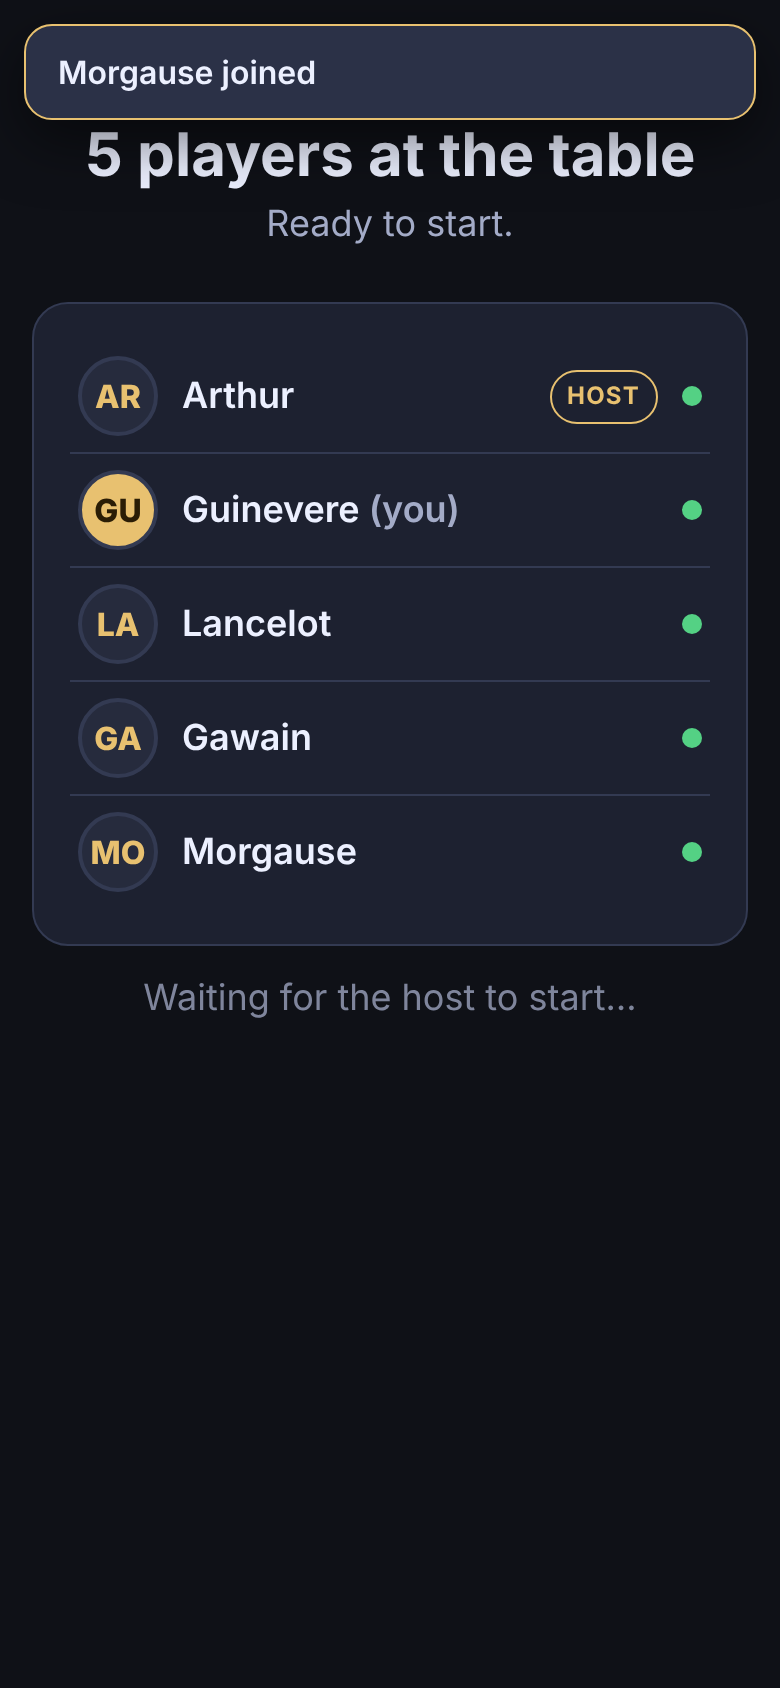
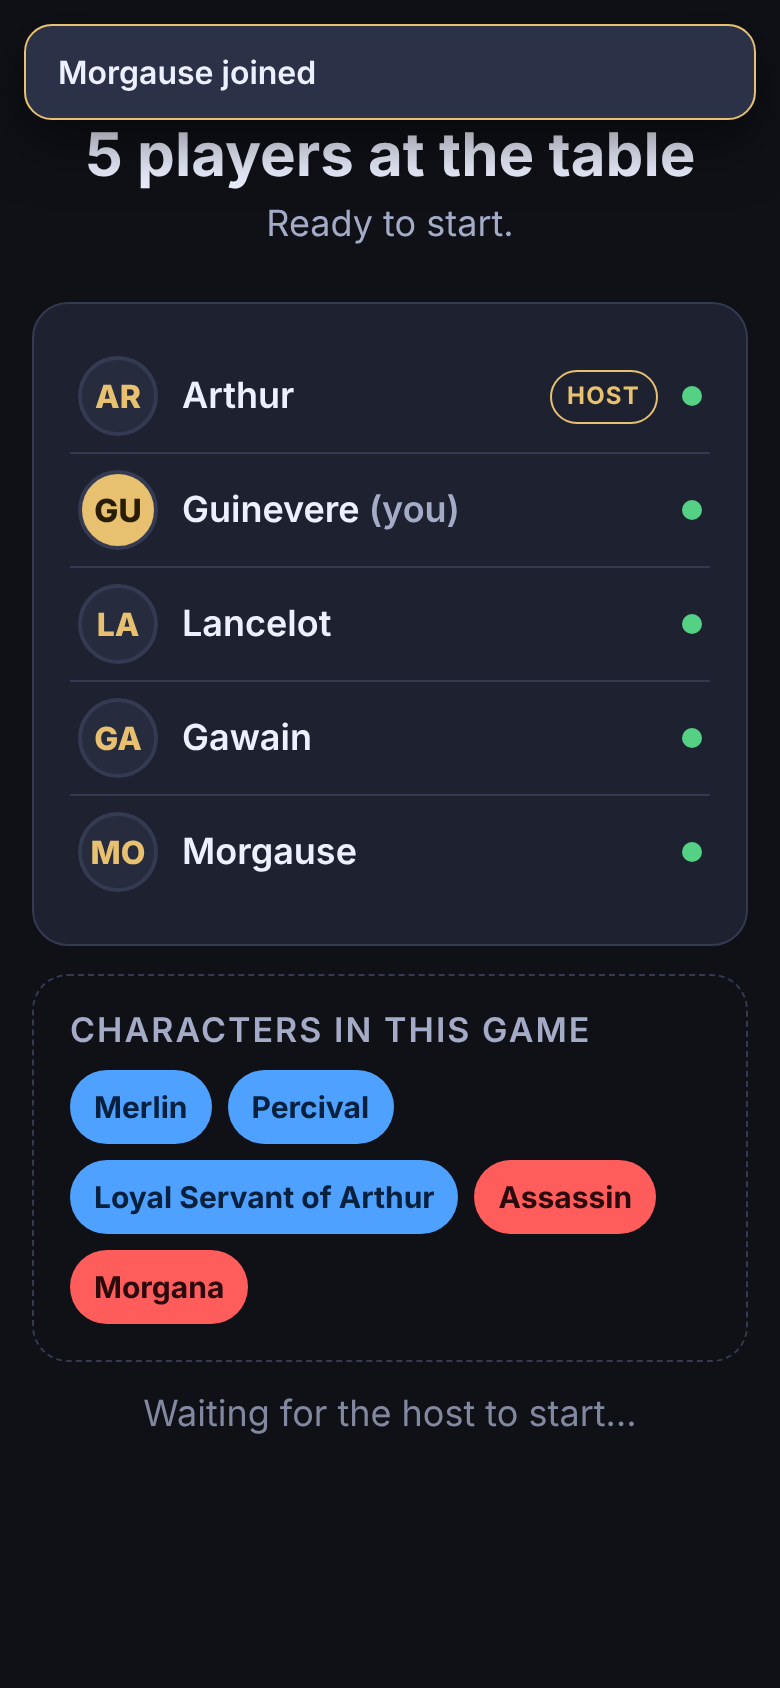
Host can add Mordred and Oberon and toggle Percival and Morgana
Lobby gains character switches (Merlin and the Assassin are always in).
Mordred is hidden from Merlin; Oberon is unknown to the other evil
players and knows nobody; Percival without Morgana sees Merlin only.
The engine rejects combinations that do not fit the evil seats. Everyone
sees the list of characters in play. Fallback card art for the two new
characters; drop mordred.png / oberon.png into web/img for the real art.

Claude-Session: https://claude.ai/code/session_01L9td7i8WK9tKyVLFpHJSvk

diff --git a/server/src/main/resources/web/app.js b/server/src/main/resources/web/app.js
@@ -240,6 +240,12 @@
     ASSASSIN: { name: 'Assassin', img: 'assassin', loyalty: 'EVIL',
       text: 'The blade in the dark. If good wins three quests, you get one shot at Merlin.',
       tips: ['Watch who quietly steers the good players: that is probably Merlin.', 'Fail quests when you are on them, and make votes fail five times if you can.', 'At the end, discuss with your team and name Merlin to win.'] },
+    MORDRED: { name: 'Mordred', img: 'mordred', loyalty: 'EVIL',
+      text: 'The dark lord. Merlin cannot see you.',
+      tips: ['Merlin does not know you are evil: use that to earn the trust of the good players.', 'Get onto quests and fail them, or make the table reject five teams in a row.', 'Help the Assassin work out who Merlin is.'] },
+    OBERON: { name: 'Oberon', img: 'oberon', loyalty: 'EVIL',
+      text: 'The lone agent. You do not know the other evil players, and they do not know you. Merlin sees you.',
+      tips: ['Work out who your evil teammates are from the votes and failed quests.', 'Get onto quests and play Fail.', 'Be careful: a quest with two evil players can fail with two cards and expose you both.'] },
     MINION: { name: 'Minion of Mordred', img: 'minion', loyalty: 'EVIL',
       text: 'A servant of darkness. You know your fellow evil players.',
       tips: ['Get picked for quests and play Fail (one is usually enough).', 'Reject teams full of good players; approve teams that include evil.', 'Help identify Merlin for the Assassin at the end.'] },
@@ -251,8 +257,9 @@
     const good = m.loyalty === 'GOOD';
     let knowledge = '';
     if (m.role === 'MERLIN') knowledge = `<div class="know"><h3>These players are evil</h3>${nameTags(m.knownEvil)}</div>`;
-    else if (m.role === 'PERCIVAL') knowledge = `<div class="know"><h3>Merlin and Morgana (in some order)</h3>${nameTags(m.merlinOrMorgana)}</div>`;
-    else if (!good) knowledge = `<div class="know"><h3>Your fellow evil players</h3>${m.evilTeammates.length ? nameTags(m.evilTeammates) : '<span class="muted">none</span>'}</div>`;
+    else if (m.role === 'PERCIVAL') knowledge = `<div class="know"><h3>${m.merlinOrMorgana.length > 1 ? 'Merlin and Morgana (in some order)' : 'Merlin'}</h3>${nameTags(m.merlinOrMorgana)}</div>`;
+    else if (m.role === 'OBERON') knowledge = `<div class="know"><h3>What you know</h3><span class="muted">Nothing. The other evil players do not know you either.</span></div>`;
+    else if (!good) knowledge = `<div class="know"><h3>Your fellow evil players</h3>${m.evilTeammates.length ? nameTags(m.evilTeammates) : '<span class="muted">none</span>'}${(ui.state && ui.state.rolesInPlay.includes('OBERON')) ? '<div class="muted" style="font-size:13px;margin-top:6px">Oberon is in play and is not shown here.</div>' : ''}</div>`;
     else knowledge = `<div class="know"><h3>What you know</h3><span class="muted">Only your own loyalty.</span></div>`;
     return `${info.img ? roleImage(info) : ''}
       <div class="loyalty">${good ? 'Good' : 'Evil'}</div>
@@ -365,7 +372,16 @@
       </div>
       ${m.isHost && joinUrl ? `<div class="card flat center"><h3>Friends open this address</h3><div class="linkbox">${esc(joinUrl)}</div><p class="muted" style="margin:8px 0 0;font-size:14px">They must be on your hotspot Wi-Fi.</p></div>` : ''}
       <div class="card"><ul class="list">${list}</ul></div>
+      ${rolesInPlayHtml(s)}
       ${m.isHost ? `
+        <div class="card">
+          <h3>Characters</h3>
+          ${charToggle(s, 'percival', 'Percival', 'Good. Sees Merlin and Morgana.')}
+          ${charToggle(s, 'morgana', 'Morgana', 'Evil. Looks like Merlin to Percival.')}
+          ${charToggle(s, 'mordred', 'Mordred', 'Evil. Hidden from Merlin.')}
+          ${charToggle(s, 'oberon', 'Oberon', 'Evil. Unknown to the other evil players.')}
+          <p class="muted" style="font-size:13px;margin:6px 0 0">Merlin and the Assassin are always in. Evil seats: ${evilSeats(n)} at ${n} players, so the Assassin plus up to ${Math.max(0, evilSeats(n) - 1)} of Morgana, Mordred and Oberon.</p>
+        </div>
         <div class="card">
           <div class="toggle" data-action="toggleLady" role="switch" aria-checked="${ladyOn}">
             <div><div style="font-weight:700">Lady of the Lake</div><div class="muted" style="font-size:14px">${ladyDefault ? 'On by default at 7+ players' : 'Optional at 5–6 players'}</div></div>
@@ -374,6 +390,25 @@
         </div>
         <div class="actions"><button class="btn big" data-action="start" ${canStart ? '' : 'disabled'}>Start game</button></div>`
         : `<p class="center muted pulse">Waiting for the host to start…</p>`}`;
+  }
+
+  const EVIL_SEATS = { 5: 2, 6: 2, 7: 3, 8: 3, 9: 3, 10: 4 };
+  function evilSeats(n) { return EVIL_SEATS[n] || (n >= 10 ? 4 : 2); }
+  function charToggle(s, key, title, text) {
+    const on = !!s.options[key];
+    return `<div class="toggle" data-action="toggleChar" data-key="${key}" role="switch" aria-checked="${on}">
+      <div><div style="font-weight:700">${title}</div><div class="muted" style="font-size:14px">${text}</div></div>
+      <span class="switch ${on ? 'on' : ''}"></span></div>`;
+  }
+  function rolesInPlayHtml(s) {
+    if (!s.rolesInPlay || !s.rolesInPlay.length) return '';
+    const counts = {};
+    s.rolesInPlay.forEach((r) => { counts[r] = (counts[r] || 0) + 1; });
+    const order = ['MERLIN', 'PERCIVAL', 'LOYAL_SERVANT', 'ASSASSIN', 'MORGANA', 'MORDRED', 'OBERON', 'MINION'];
+    return `<div class="card flat"><h3>Characters in this game</h3><div class="names">${order.filter((r) => counts[r]).map((r) => {
+      const info = ROLE_INFO[r];
+      return `<span class="tag ${info.loyalty === 'GOOD' ? 'good' : 'evil'}">${esc(info.name)}${counts[r] > 1 ? ' ×' + counts[r] : ''}</span>`;
+    }).join('')}</div></div>`;
   }
 
   // ---- role reveal
@@ -741,6 +776,7 @@
       case 'start': act('start'); break;
       case 'kick': confirmDialog('Remove ' + nameOf(id) + ' from the table?', () => act('kick', { playerId: id })); break;
       case 'toggleLady': act('setOptions', { ladyOfTheLake: !s.ladyEnabled }); break;
+      case 'toggleChar': { const k = el.getAttribute('data-key'); const o = {}; o[k] = !s.options[k]; act('setOptions', o); break; }
       case 'toggleRole': ui.roleShown = !ui.roleShown; render(); break;
       case 'confirmRole': ui.roleShown = false; act('confirmRole'); break;
       case 'forceContinue': act('forceContinue'); break;

diff --git a/engine/src/test/kotlin/avalon/engine/GameTest.kt b/engine/src/test/kotlin/avalon/engine/GameTest.kt
@@ -12,15 +12,16 @@ import kotlin.test.assertTrue
 
 class GameTest {
 
-    private fun lobby(n: Int, seed: Int = 1, lady: Boolean? = null): Game {
+    private fun lobby(n: Int, seed: Int = 1, lady: Boolean? = null, options: GameOptions? = null): Game {
         val g = Game(Random(seed))
         for (i in 0 until n) g.addPlayer("p$i", "Player $i", host = i == 0)
-        if (lady != null) g.setOptions("p0", GameOptions(ladyOfTheLake = lady))
+        if (options != null) g.setOptions("p0", options.copy(ladyOfTheLake = lady ?: options.ladyOfTheLake))
+        else if (lady != null) g.setOptions("p0", GameOptions(ladyOfTheLake = lady))
         return g
     }
 
-    private fun started(n: Int, seed: Int = 1, lady: Boolean? = null): Game {
-        val g = lobby(n, seed, lady)
+    private fun started(n: Int, seed: Int = 1, lady: Boolean? = null, options: GameOptions? = null): Game {
+        val g = lobby(n, seed, lady, options)
         g.start("p0")
         g.players.forEach { g.confirmRole(it.id) }
         assertEquals(Phase.TEAM_SELECTION, g.phase)
@@ -95,6 +96,44 @@ class GameTest {
             assertEquals(Setup.forPlayers(n).evil, roles.count { !it.good })
             assertEquals(n >= 7, g.viewFor("p0").ladyEnabled)
         }
+    }
+
+    @Test
+    fun `optional characters Mordred and Oberon follow the rules`() {
+        // Not enough evil seats at 5-6 players for Morgana + Mordred.
+        assertFailsWith<IllegalActionException> { lobby(5).setOptions("p0", GameOptions(mordred = true)) }
+        assertFailsWith<IllegalActionException> { lobby(6).setOptions("p0", GameOptions(oberon = true)) }
+        assertFailsWith<IllegalActionException> { lobby(7).setOptions("p0", GameOptions(mordred = true, oberon = true)) }
+        assertFailsWith<IllegalActionException> { lobby(7).setOptions("p0", GameOptions(percival = false)) } // Morgana needs Percival
+        // Dropping Morgana makes room at 5 players.
+        val small = started(5, options = GameOptions(morgana = false, mordred = true))
+        assertEquals(1, small.players.count { it.role == Role.MORDRED })
+        assertEquals(0, small.players.count { it.role == Role.MORGANA })
+        // Percival without Morgana sees only Merlin.
+        val perc = small.viewFor(small.byRole(Role.PERCIVAL).id).you
+        assertEquals(listOf(small.byRole(Role.MERLIN).id), perc.merlinOrMorgana)
+
+        for (n in 7..10) for (seed in 1..4) {
+            val g = started(n, seed = seed, options = GameOptions(mordred = true, oberon = n >= 10))
+            val all = g.viewFor("p0").rolesInPlay
+            assertEquals(n, all.size)
+            assertTrue(Role.MORDRED in all); assertEquals(n >= 10, Role.OBERON in all)
+            val evil = g.players.filter { !it.role!!.good }.map { it.id }.toSet()
+            val mordred = g.byRole(Role.MORDRED).id
+            val oberon = g.players.firstOrNull { it.role == Role.OBERON }?.id
+            // Merlin sees all evil except Mordred.
+            assertEquals(evil - mordred, g.viewFor(g.byRole(Role.MERLIN).id).you.knownEvil.toSet())
+            for (p in g.players.filter { !it.role!!.good }) {
+                val mates = g.viewFor(p.id).you.evilTeammates.toSet()
+                if (p.role == Role.OBERON) assertTrue(mates.isEmpty(), "Oberon knows nobody")
+                else assertEquals(evil - p.id - setOfNotNull(oberon), mates, "evil see each other but not Oberon")
+            }
+            if (oberon != null) assertTrue(oberon in g.viewFor(g.byRole(Role.MERLIN).id).you.knownEvil, "Merlin sees Oberon")
+            assertEquals(listOf(QuestCard.SUCCESS, QuestCard.FAIL), g.viewFor(mordred).you.allowedQuestCards)
+        }
+        // Options that stop fitting after players leave are rejected at start.
+        val g = lobby(7); g.setOptions("p0", GameOptions(mordred = true)); g.kick("p0", "p6"); g.kick("p0", "p5")
+        assertFailsWith<IllegalActionException> { g.start("p0") }
     }
 
     @Test

diff --git a/engine/src/main/kotlin/avalon/engine/Model.kt b/engine/src/main/kotlin/avalon/engine/Model.kt
@@ -10,6 +10,8 @@ enum class Role(val good: Boolean, val displayName: String) {
     LOYAL_SERVANT(true, "Loyal Servant of Arthur"),
     MORGANA(false, "Morgana"),
     ASSASSIN(false, "Assassin"),
+    MORDRED(false, "Mordred"),
+    OBERON(false, "Oberon"),
     MINION(false, "Minion of Mordred");
 
     val loyalty: Loyalty get() = if (good) Loyalty.GOOD else Loyalty.EVIL
@@ -47,7 +49,15 @@ class IllegalActionException(message: String) : RuntimeException(message)
 data class GameOptions(
     /** null = default (Lady of the Lake on at 7+ players). */
     val ladyOfTheLake: Boolean? = null,
-)
+    /** Optional characters. Merlin and the Assassin are always in play. */
+    val percival: Boolean = true,
+    val morgana: Boolean = true,
+    val mordred: Boolean = false,
+    val oberon: Boolean = false,
+) {
+    /** Evil characters besides the Assassin that these options ask for. */
+    val specialEvilCount: Int get() = listOf(morgana, mordred, oberon).count { it }
+}
 
 /** Per player-count configuration from the official rules. */
 data class Setup(val players: Int, val good: Int, val evil: Int, val questSizes: List<Int>) {
@@ -66,11 +76,22 @@ data class Setup(val players: Int, val good: Int, val evil: Int, val questSizes:
 
         fun forPlayers(n: Int): Setup = TABLE[n] ?: throw IllegalActionException("Avalon needs 5 to 10 players")
 
-        fun roles(n: Int): List<Role> {
+        /** Throws if the optional characters do not fit this player count. */
+        fun validate(n: Int, o: GameOptions) {
             val s = forPlayers(n)
-            val good = listOf(Role.MERLIN, Role.PERCIVAL) + List(s.good - 2) { Role.LOYAL_SERVANT }
-            val evil = listOf(Role.MORGANA, Role.ASSASSIN) + List(s.evil - 2) { Role.MINION }
-            return good + evil
+            val evilSpecials = 1 + o.specialEvilCount // Assassin + chosen
+            if (evilSpecials > s.evil) throw IllegalActionException(
+                "With $n players there are only ${s.evil} evil roles: the Assassin plus at most ${s.evil - 1} of Morgana, Mordred and Oberon")
+            if (o.morgana && !o.percival) throw IllegalActionException("Morgana only makes sense together with Percival")
+        }
+
+        fun roles(n: Int, o: GameOptions = GameOptions()): List<Role> {
+            validate(n, o)
+            val s = forPlayers(n)
+            val good = listOf(Role.MERLIN) + (if (o.percival) listOf(Role.PERCIVAL) else emptyList())
+            val evil = listOf(Role.ASSASSIN) + (if (o.morgana) listOf(Role.MORGANA) else emptyList()) +
+                (if (o.mordred) listOf(Role.MORDRED) else emptyList()) + (if (o.oberon) listOf(Role.OBERON) else emptyList())
+            return good + List(s.good - good.size) { Role.LOYAL_SERVANT } + evil + List(s.evil - evil.size) { Role.MINION }
         }
     }
 }

diff --git a/engine/src/main/kotlin/avalon/engine/Game.kt b/engine/src/main/kotlin/avalon/engine/Game.kt
@@ -107,6 +107,7 @@ class Game(private val random: Random = Random.Default) {
     fun setOptions(hostId: String, newOptions: GameOptions) {
         requireHost(hostId)
         requirePhase(Phase.LOBBY, "Options can only be changed in the lobby")
+        if (seats.size in 5..10) Setup.validate(seats.size, newOptions)
         options = newOptions
         bump()
     }
@@ -144,7 +145,7 @@ class Game(private val random: Random = Random.Default) {
     private fun beginGame() {
         val n = seats.size
         setup = Setup.forPlayers(n)
-        val roles = Setup.roles(n).shuffled(random)
+        val roles = Setup.roles(n, options).shuffled(random)
         seats.forEachIndexed { i, p -> p.role = roles[i] }
 
         questIndex = 0
@@ -360,12 +361,15 @@ class Game(private val random: Random = Random.Default) {
         val role = me.role.takeIf { inGame }
         val s = setup
 
-        val knownEvil = if (inGame && role == Role.MERLIN) seats.filter { !it.role!!.good }.map { it.id } else emptyList()
+        // Merlin sees every evil player except Mordred.
+        val knownEvil = if (inGame && role == Role.MERLIN) seats.filter { !it.role!!.good && it.role != Role.MORDRED }.map { it.id } else emptyList()
+        // Percival sees Merlin and Morgana (one name only if Morgana is not in play).
         val merlinOrMorgana = if (inGame && role == Role.PERCIVAL)
             seats.filter { it.role == Role.MERLIN || it.role == Role.MORGANA }.map { it.id }.shuffled(random)
         else emptyList()
-        val evilTeammates = if (inGame && role != null && !role.good)
-            seats.filter { !it.role!!.good && it.id != me.id }.map { it.id } else emptyList()
+        // Evil players know each other, except that Oberon is unknown to them and knows nobody.
+        val evilTeammates = if (inGame && role != null && !role.good && role != Role.OBERON)
+            seats.filter { !it.role!!.good && it.role != Role.OBERON && it.id != me.id }.map { it.id } else emptyList()
 
         val pending = pendingActionFor(me)
         val yourLady = if (inGame) ladyHistory.filter { it.holderId == me.id }
@@ -414,6 +418,7 @@ class Game(private val random: Random = Random.Default) {
             playedIds = if (phase == Phase.QUEST) questCards.keys.toList() else emptyList(),
             readyIds = if (phase == Phase.ROLE_REVEAL) ready.toList() else emptyList(),
             options = options,
+            rolesInPlay = if (seats.size in 5..10) runCatching { Setup.roles(seats.size, options).sorted() }.getOrDefault(emptyList()) else emptyList(),
             gameOver = over,
             lastEvent = lastEvent,
             version = version,

diff --git a/server/src/test/kotlin/avalon/server/LeakChecker.kt b/server/src/test/kotlin/avalon/server/LeakChecker.kt
@@ -58,6 +58,7 @@ class LeakChecker(private val game: Game) {
                 when {
                     v in roleNames -> {
                         val ok = path == "state.you.role" && v == myRole.name ||
+                            path.matches(Regex("""state\.rolesInPlay\[\d+]""")) || // the deck is public
                             gameOver && path.startsWith("state.gameOver.roles.")
                         if (!ok) bad("role '$v' at $path")
                     }
@@ -81,11 +82,14 @@ class LeakChecker(private val game: Game) {
             val mm = you.ids("merlinOrMorgana")
             val teammates = you.ids("evilTeammates")
             if (inGame) {
+                val mordred = game.players.firstOrNull { it.role == Role.MORDRED }?.id
+                val oberon = game.players.firstOrNull { it.role == Role.OBERON }?.id
                 when (myRole) {
-                    Role.MERLIN -> if (knownEvil != evil) bad("Merlin knownEvil=$knownEvil expected $evil")
+                    Role.MERLIN -> if (knownEvil != evil - setOfNotNull(mordred)) bad("Merlin knownEvil=$knownEvil expected ${evil - setOfNotNull(mordred)}")
                     Role.PERCIVAL -> if (mm != merlinMorgana) bad("Percival merlinOrMorgana=$mm expected $merlinMorgana")
                     Role.LOYAL_SERVANT -> {}
-                    else -> if (teammates != evil - playerId) bad("evilTeammates=$teammates expected ${evil - playerId}")
+                    Role.OBERON -> if (teammates.isNotEmpty()) bad("Oberon must not know the other evil")
+                    else -> if (teammates != evil - playerId - setOfNotNull(oberon)) bad("evilTeammates=$teammates expected ${evil - playerId - setOfNotNull(oberon)}")
                 }
                 if (myRole != Role.MERLIN && knownEvil.isNotEmpty()) bad("non-Merlin received knownEvil")
                 if (myRole != Role.PERCIVAL && mm.isNotEmpty()) bad("non-Percival received merlinOrMorgana")

diff --git a/server/src/test/kotlin/avalon/server/SimulationTest.kt b/server/src/test/kotlin/avalon/server/SimulationTest.kt
@@ -25,7 +25,7 @@ class SimulationTest {
 
     private data class Outcome(val winner: Winner, val quests: Int, val lady: Int)
 
-    private fun playGame(n: Int, seed: Int, ladyOverride: Boolean? = null, chaos: Boolean = true): Outcome = runBlocking {
+    private fun playGame(n: Int, seed: Int, ladyOverride: Boolean? = null, chaos: Boolean = true, extraRoles: Boolean = false): Outcome = runBlocking {
         val random = Random(seed)
         val server = AvalonServer(port = 0, joinAddress = { "127.0.0.1" })
         server.start()
@@ -39,6 +39,10 @@ class SimulationTest {
             withTimeout(10_000) { while (bots.any { it.view?.players?.size != n }) delay(10) }
             if (ladyOverride != null) {
                 bots[0].action("setOptions") { put("ladyOfTheLake", ladyOverride) }
+            }
+            if (extraRoles) {
+                bots[0].action("setOptions") { put("mordred", true); put("oberon", n >= 10); if (n < 7) { put("morgana", false) } }
+                withTimeout(5_000) { while (server.room.game.options.mordred != true) delay(10) }
             }
             // The host bot starts the game.
             val diag = {
@@ -97,6 +101,11 @@ class SimulationTest {
             if (n >= 7) assertTrue(outcomes.any { it.lady > 0 }, "Lady of the Lake should happen at n=$n")
         }
         println("Simulation outcomes: " + stats.map { (n, o) -> "$n players: good=${o.count { it.winner == Winner.GOOD }} evil=${o.count { it.winner == Winner.EVIL }}" })
+    }
+
+    @Test
+    fun `games with Mordred and Oberon finish and leak nothing`() {
+        for (n in listOf(5, 7, 8, 10)) repeat(3) { i -> playGame(n, seed = 7000 + n * 10 + i, extraRoles = true) }
     }
 
     @Test

diff --git a/server/src/main/kotlin/avalon/server/Room.kt b/server/src/main/kotlin/avalon/server/Room.kt
@@ -148,7 +148,17 @@ class Room(
                 if (game.findPlayer(pid) == null) throw IllegalActionException("You are no longer in this game")
                 when (action) {
                     "start" -> game.start(pid)
-                    "setOptions" -> game.setOptions(pid, GameOptions(ladyOfTheLake = obj["ladyOfTheLake"]?.jsonPrimitive?.booleanOrNull))
+                    "setOptions" -> {
+                        val cur = game.options
+                        fun flag(key: String, def: Boolean) = obj[key]?.jsonPrimitive?.booleanOrNull ?: def
+                        game.setOptions(pid, GameOptions(
+                            ladyOfTheLake = if (obj.containsKey("ladyOfTheLake")) obj["ladyOfTheLake"]?.jsonPrimitive?.booleanOrNull else cur.ladyOfTheLake,
+                            percival = flag("percival", cur.percival),
+                            morgana = flag("morgana", cur.morgana),
+                            mordred = flag("mordred", cur.mordred),
+                            oberon = flag("oberon", cur.oberon),
+                        ))
+                    }
                     "kick" -> {
                         val target = obj.str("playerId") ?: throw IllegalActionException("Missing player")
                         game.kick(pid, target)

diff --git a/engine/src/main/kotlin/avalon/engine/View.kt b/engine/src/main/kotlin/avalon/engine/View.kt
@@ -37,6 +37,8 @@ data class PlayerView(
     /** During ROLE_REVEAL: players who confirmed they saw their role. */
     val readyIds: List<String>,
     val options: GameOptions,
+    /** Every role card that is (or would be) dealt with the current options and player count. Public. */
+    val rolesInPlay: List<Role> = emptyList(),
     val gameOver: GameOverView? = null,
     /** Human readable description of the last thing that happened; same for everyone. */
     val lastEvent: String? = null,

diff --git a/README.md b/README.md
@@ -53,7 +53,7 @@ Tips
 The app ships with its own drawn role cards. If you'd rather see the card art you know from the physical game, add pictures of your own cards and they are used automatically:
 
 1. Photograph or scan each role card (or use images you already have) and save them as PNG files with exactly these names:
-   `merlin.png`, `percival.png`, `loyal_servant.png`, `morgana.png`, `assassin.png`, `minion.png`.
+   `merlin.png`, `percival.png`, `loyal_servant.png`, `morgana.png`, `assassin.png`, `minion.png`, `mordred.png`, `oberon.png`.
    Portrait orientation, roughly 600×800 pixels is plenty; keep each file under ~300 KB so phones load them quickly.
 2. Put them in the folder `server/src/main/resources/web/img/` (next to the `.svg` files) and commit/push, or upload them through GitHub's web interface (**Add file → Upload files** inside that folder).
 3. GitHub Actions builds a new APK with the pictures bundled. Install it on the host phone as in section 1.
@@ -73,7 +73,7 @@ If a `.png` is missing the drawn `.svg` card is shown instead. (The official art
 
 ★ Quest 4 needs **two** Fail cards to fail at 7+ players.
 
-* Good: Merlin, Percival, Loyal Servants. Evil: Morgana, Assassin, Minions of Mordred.
+* Good: Merlin, Percival, Loyal Servants. Evil: Assassin, Morgana, Minions of Mordred. Merlin and the Assassin are always in; in the lobby the host can switch Percival, Morgana, **Mordred** (evil, hidden from Merlin) and **Oberon** (evil, unknown to the other evil players and knows nobody) on or off. The evil specials must fit the evil seats (Assassin + 1 at 5–6 players, + 2 at 7–9, + 3 at 10).
 * Merlin sees who is evil. Percival sees Merlin and Morgana without knowing which is which. Evil players see each other. Loyal Servants see only their own role.
 * Leadership rotates in seat (join) order; the first leader is random.
 * The leader proposes a team; everyone votes; votes are revealed together with names. Five rejections in a row = evil wins.
